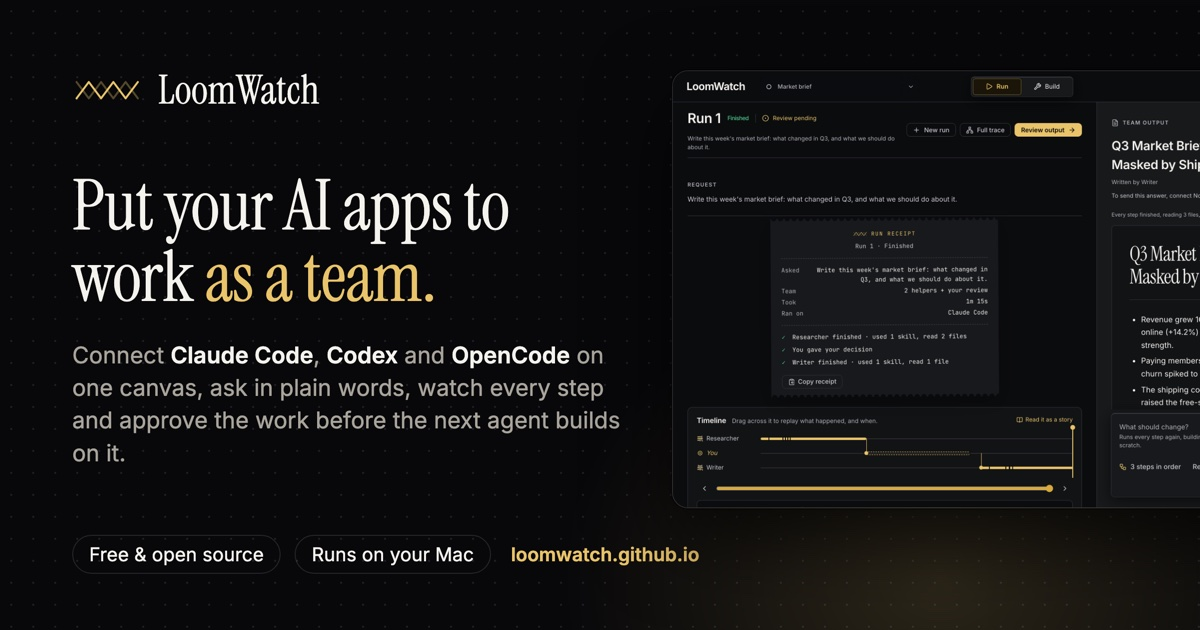
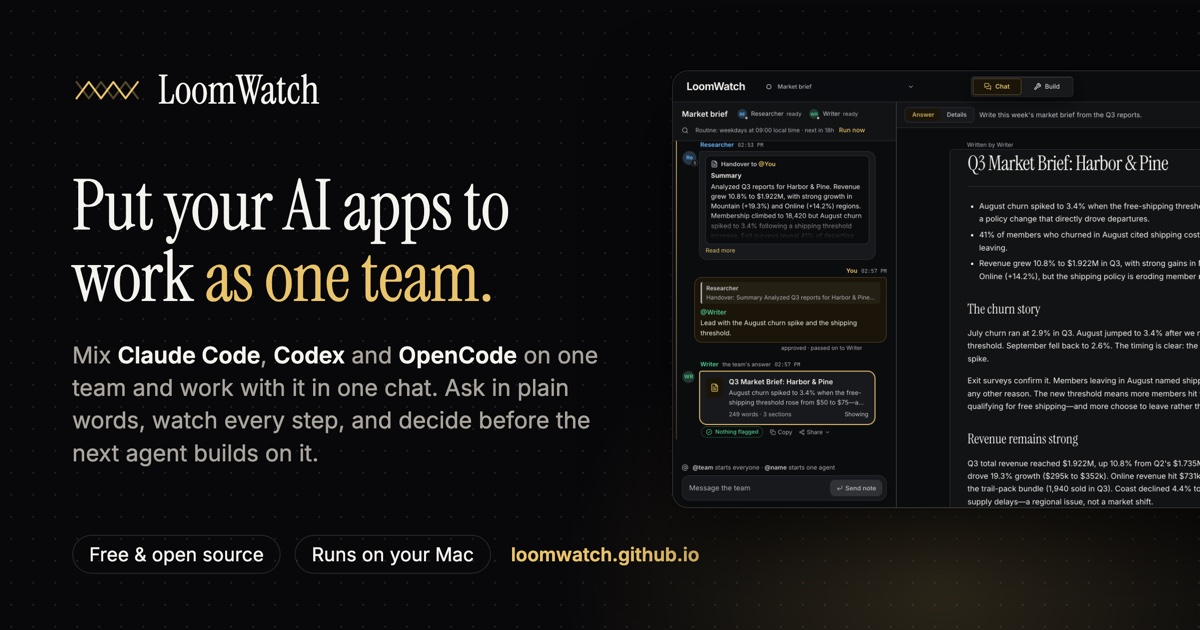
Publish the landing page from f829ab0

diff --git a/index.html b/index.html
@@ -8,18 +8,18 @@
   <meta name="theme-color" content="#08080A">
   <meta property="og:site_name" content="LoomWatch">
   <meta property="og:title" content="LoomWatch — Put AI agents to work as a team">
-  <meta property="og:description" content="A free, open-source Mac app that puts the command-line AI apps you already use (Claude Code, Codex, OpenCode) to work as one team. Watch every step, and approve before the next agent builds on it.">
+  <meta property="og:description" content="A free, open-source Mac app that puts the command-line AI apps you already use (Claude Code, Codex, OpenCode) to work as one team, in one chat. Watch every step, and decide before the next agent builds on it.">
   <meta property="og:type" content="website">
   <meta property="og:url" content="https://loomwatch.github.io/">
-  <meta property="og:image" content="https://loomwatch.github.io/social-card.jpg">
+  <meta property="og:image" content="https://loomwatch.github.io/social-card.jpg?v=2">
   <meta property="og:image:width" content="1200">
   <meta property="og:image:height" content="630">
-  <meta property="og:image:alt" content="LoomWatch: put your AI apps to work as a team. A run receipt and timeline from the app.">
+  <meta property="og:image:alt" content="LoomWatch: put your AI apps to work as one team. The team's chat in the app: a handover, your note to the writer, and the team's answer.">
   <meta name="twitter:card" content="summary_large_image">
   <meta name="twitter:title" content="LoomWatch — Put AI agents to work as a team">
-  <meta name="twitter:description" content="A free, open-source Mac app that puts the command-line AI apps you already use (Claude Code, Codex, OpenCode) to work as one team. Watch every step, and approve before the next agent builds on it.">
-  <meta name="twitter:image" content="https://loomwatch.github.io/social-card.jpg">
-  <meta name="twitter:image:alt" content="LoomWatch: put your AI apps to work as a team. A run receipt and timeline from the app.">
+  <meta name="twitter:description" content="A free, open-source Mac app that puts the command-line AI apps you already use (Claude Code, Codex, OpenCode) to work as one team, in one chat. Watch every step, and decide before the next agent builds on it.">
+  <meta name="twitter:image" content="https://loomwatch.github.io/social-card.jpg?v=2">
+  <meta name="twitter:image:alt" content="LoomWatch: put your AI apps to work as one team. The team's chat in the app: a handover, your note to the writer, and the team's answer.">
   <link rel="canonical" href="https://loomwatch.github.io/">
   <link rel="icon" href="favicon.ico" sizes="32x32">
   <link rel="icon" href="favicon.svg" type="image/svg+xml">

diff --git a/usecases.html b/usecases.html
@@ -11,15 +11,15 @@
   <meta property="og:description" content="Two real jobs for a team of your AI apps, each shown from a real run.">
   <meta property="og:type" content="website">
   <meta property="og:url" content="https://loomwatch.github.io/usecases.html">
-  <meta property="og:image" content="https://loomwatch.github.io/social-card.jpg">
+  <meta property="og:image" content="https://loomwatch.github.io/social-card.jpg?v=2">
   <meta property="og:image:width" content="1200">
   <meta property="og:image:height" content="630">
-  <meta property="og:image:alt" content="LoomWatch: put your AI apps to work as a team. A run receipt and timeline from the app.">
+  <meta property="og:image:alt" content="LoomWatch: put your AI apps to work as one team. The team's chat in the app: a handover, your note to the writer, and the team's answer.">
   <meta name="twitter:card" content="summary_large_image">
   <meta name="twitter:title" content="LoomWatch — Use cases">
   <meta name="twitter:description" content="Two real jobs for a team of your AI apps, each shown from a real run.">
-  <meta name="twitter:image" content="https://loomwatch.github.io/social-card.jpg">
-  <meta name="twitter:image:alt" content="LoomWatch: put your AI apps to work as a team. A run receipt and timeline from the app.">
+  <meta name="twitter:image" content="https://loomwatch.github.io/social-card.jpg?v=2">
+  <meta name="twitter:image:alt" content="LoomWatch: put your AI apps to work as one team. The team's chat in the app: a handover, your note to the writer, and the team's answer.">
   <link rel="canonical" href="https://loomwatch.github.io/usecases.html">
   <link rel="icon" href="favicon.ico" sizes="32x32">
   <link rel="icon" href="favicon.svg" type="image/svg+xml">
